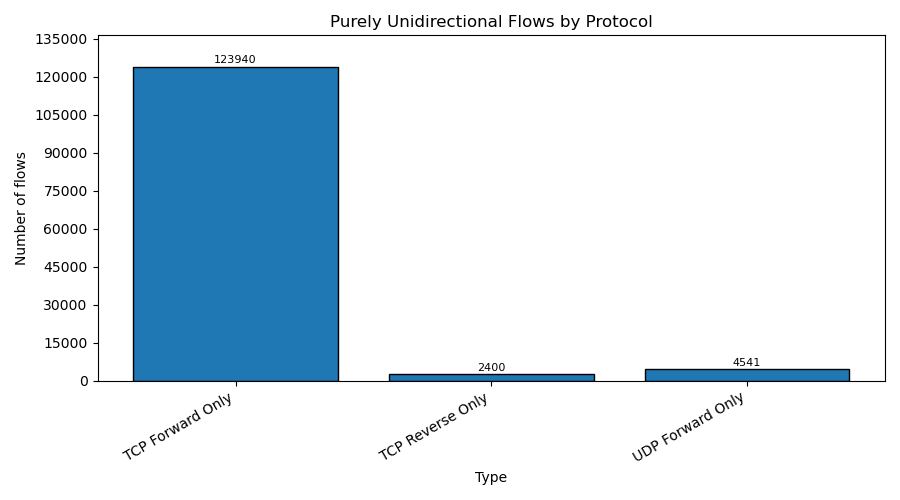
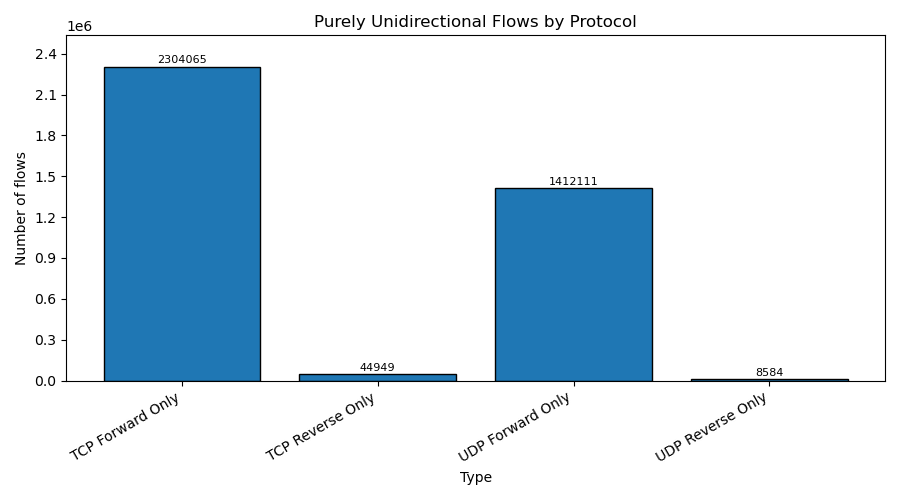
Added SNI bucketing logic and confirmd working

diff --git a/examples/flow_features/src/main.rs b/examples/flow_features/src/main.rs
@@ -181,7 +181,7 @@ impl ConnVolume {
         }
     }
 
-    #[datatype_group("ConnVolume,level=L7OnDisc")]
+    #[datatype_group("ConnVolume,level=L7EndHdrs")]
     pub fn tls(&mut self, session: &Session) {
         if let SessionData::Tls(tls) = &session.data {
             let sni = tls.sni();
@@ -189,7 +189,6 @@ impl ConnVolume {
                 self.tls_sni = Some(sni.to_string());
             }
         }
-        // do not store the full handshake in ConnVolume
     }
 }
 
@@ -419,7 +418,6 @@ fn dump_hist(path: PathBuf, h: &Histogram<u64>) -> std::io::Result<()> {
 }
 
 // Make heatmaps for TLS, QUIC, HTTP separately
-// Maybe think about most common ports
 fn dump_2d_hist(
     path: PathBuf,
     map: &HashMap<(u64, u64), u64>,

diff --git a/examples/plot_hist.py b/examples/plot_hist.py
@@ -177,7 +177,7 @@ def plot_2d_heatmap(rows, title, filename):
 # --------------------------
 if __name__ == "__main__":
 
-    base = Path("hists")
+    base = Path("hists-0217")
     out = Path("plots")
     out.mkdir(exist_ok=True)
 
